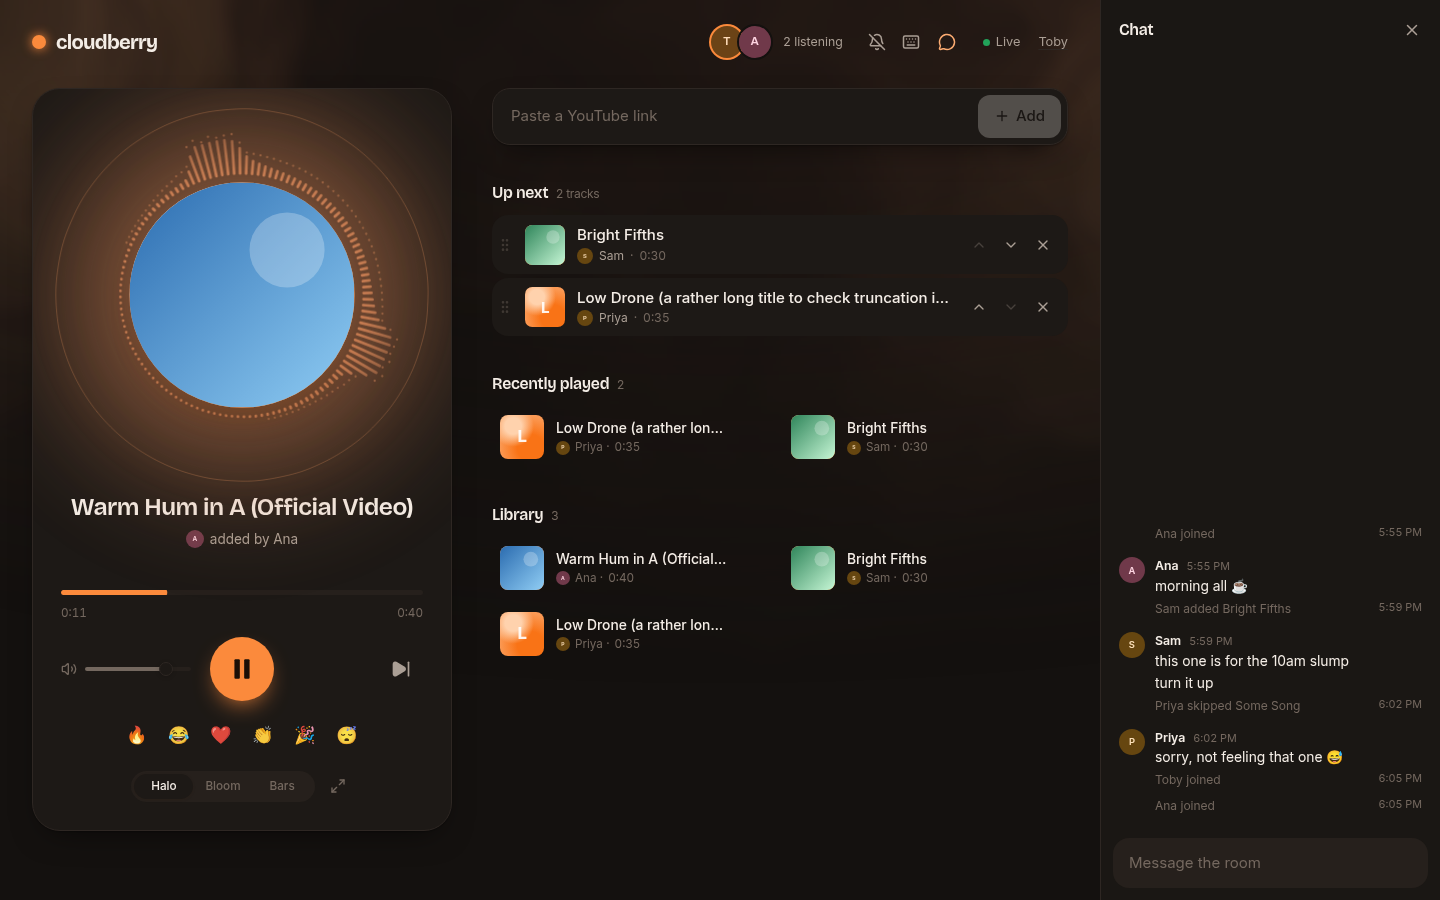
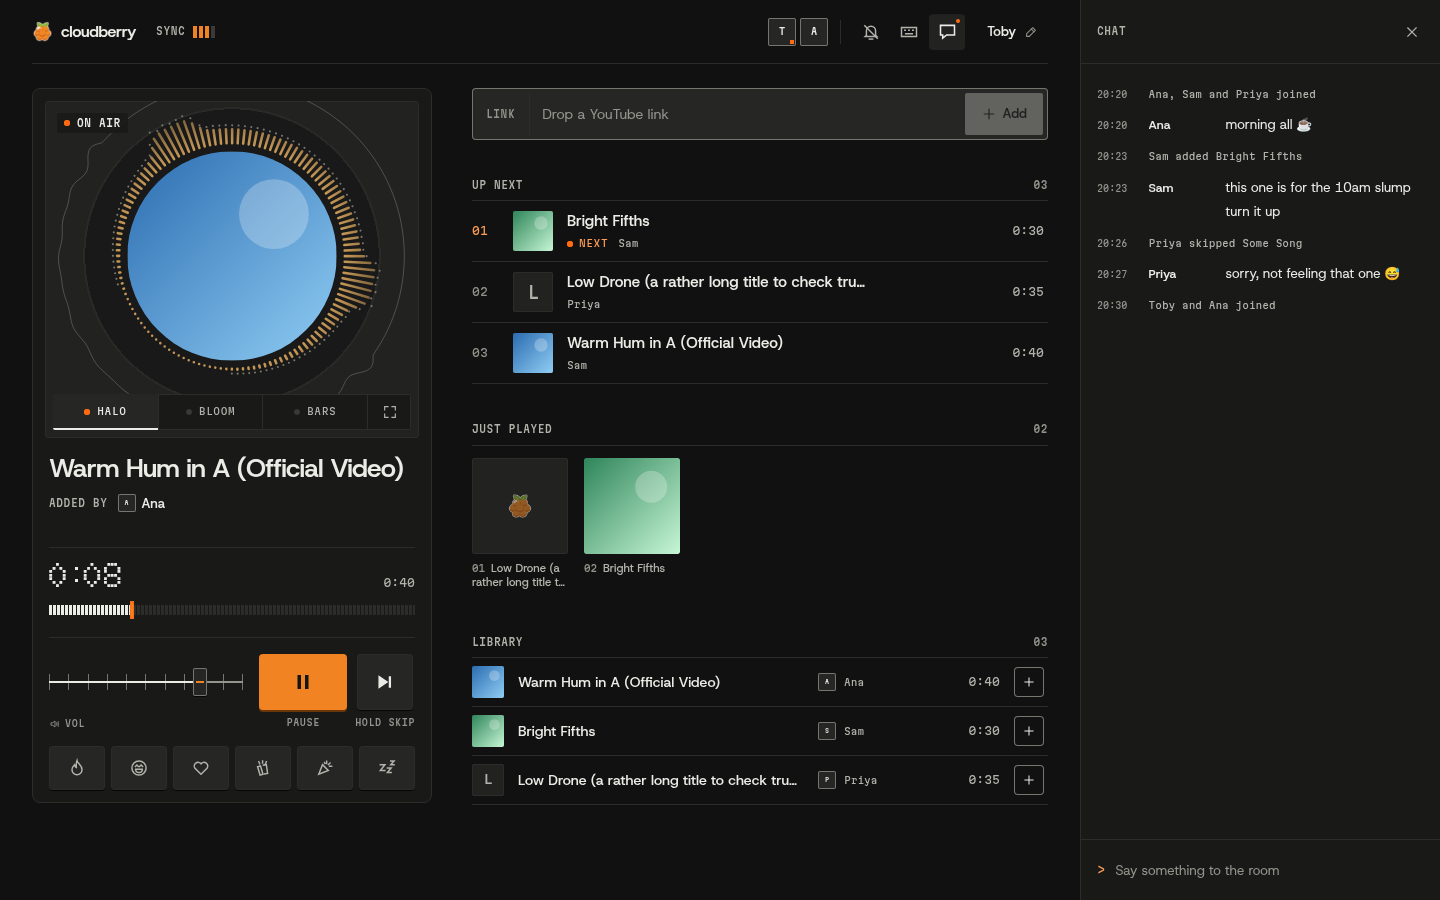
Phase 6 tidy: neutral halo plate, plain just-played numbers, one-row phone header, instrument no-WebGL2 fallback, fresh README shots
- Halo: backing disc is a face-grey plate with a hairline rim; beads and scope ring
  use --line-2; only the spokes carry the (orange-leaning) track tint.
- Just played: captions read 01, 02 like the queue, not -01.
- Phone/tablet header: SYNC meter stays inline (one 64px row); ms still on tap/focus.
- No-WebGL2 fallback: dot grid on the well with an orange level line that follows energy.
- screenshots.mjs: current gate selector and font token; mock seeds a third queued track.

diff --git a/web/src/lib/visualizer/Halo.svelte b/web/src/lib/visualizer/Halo.svelte
@@ -28,7 +28,6 @@
 		let rot = 0;
 		let pulse = 0;
 		let lastPulse = '';
-		let lastTint = '';
 
 		const draw = (f: Frame) => {
 			const { width: W, height: H } = canvas;
@@ -55,15 +54,9 @@
 			const base = C * R0 * (1 + 0.028 * pulse);
 			const inner = base + C * GAP;
 
-			// Tinted disc behind the ring, breathing with energy and beats. A CSS layer so
-			// per-frame changes are compositor-only opacity, not a full-canvas gradient fill.
-			const tint = `${r} ${gr} ${b}`;
-			if (tint !== lastTint) {
-				lastTint = tint;
-				// Flat sticker disc (hard stops), not a soft glow.
-				glowEl.style.background = `radial-gradient(closest-side, rgb(${tint}) 0 ${R0 * 170}%, rgb(${tint} / 0.45) ${R0 * 170}% 74%, transparent 74%)`;
-			}
-			glowEl.style.opacity = (0.12 + 0.3 * f.energy + 0.12 * pulse).toFixed(3);
+			// Neutral plate behind the ring (styled in CSS), breathing with energy and beats.
+			// Opacity only, so per-frame changes stay on the compositor.
+			glowEl.style.opacity = (0.8 + 0.15 * f.energy + 0.05 * pulse).toFixed(3);
 
 			// Spokes: bass at the top, mirrored down both sides, slowly turning.
 			const lw = Math.max(1.5, ((TAU * inner) / (BARS * 2)) * 0.46);
@@ -87,7 +80,9 @@
 			g.stroke();
 
 			// Peak beads just past each spoke.
-			g.fillStyle = rgba(0.55);
+			// Beads and the scope ring are neutral readouts; only the spokes carry colour.
+			const ink = getComputedStyle(canvas).color;
+			g.fillStyle = ink;
 			g.beginPath();
 			for (let i = 0; i < BARS; i++) {
 				if (f.peaks[i] < 0.04) continue;
@@ -104,7 +99,8 @@
 
 			// Thin oscilloscope ring outside the bars, mirrored and tapered so the seams vanish.
 			const wr = inner + C * (LEN + 0.018);
-			g.strokeStyle = rgba(0.22 + 0.4 * f.energy);
+			g.strokeStyle = ink;
+			g.globalAlpha = 0.5 + 0.5 * f.energy;
 			g.lineWidth = Math.max(1, C / 520);
 			g.beginPath();
 			for (const side of [1, -1]) {
@@ -121,6 +117,7 @@
 				}
 			}
 			g.stroke();
+			g.globalAlpha = 1;
 		};
 
 		const unsub = frames.subscribe(draw);
@@ -152,11 +149,14 @@
 	canvas,
 	.glow {
 		position: absolute;
+		color: var(--line-2);
 		aspect-ratio: 1;
 		pointer-events: none;
 	}
+	/* Face-grey plate with a hairline rim, set in the well: never tinted. */
 	.glow {
 		border-radius: 50%;
+		background: radial-gradient(closest-side, var(--surface) 0 73%, var(--line) 73% 74%, transparent 74%);
 		will-change: opacity;
 	}
 </style>

diff --git a/web/src/lib/visualizer/ShaderCanvas.svelte b/web/src/lib/visualizer/ShaderCanvas.svelte
@@ -7,7 +7,7 @@
 	 * A shader from the pack on a canvas. `fill` covers its box (lean-back); `aura` is
 	 * Bloom as a die-cut blob bleeding around its box (behind the now-playing art).
 	 * `still` (e.g. the track id): under reduced motion, one fixed frame per value.
-	 * Without WebGL2, a flat CSS gradient breathes with `energy` instead.
+	 * Without WebGL2, a static dot grid with an orange level line that stretches with `energy`.
 	 */
 	let {
 		shader = 'bloom',
@@ -64,16 +64,12 @@
 		requestAnimationFrame(redraw);
 	});
 
-	/** No WebGL2: a flat tinted shape that swells with energy. */
+	/** No WebGL2: the level line follows energy; the grid stays put. */
 	function runFallback() {
 		let energy = 0;
 		return frames.subscribe((f) => {
-			const el = fallback;
-			if (!el) return;
 			energy = follow(energy, f.energy + 0.3 * f.beat, f.dt, 0.1, 0.5);
-			el.style.setProperty('--tint', `rgb(${f.tint.map(Math.round).join(' ')})`);
-			el.style.opacity = (0.45 + 0.55 * energy).toFixed(3);
-			el.style.transform = `scale(${(0.92 + 0.14 * energy).toFixed(3)})`;
+			fallback?.style.setProperty('--e', energy.toFixed(3));
 		});
 	}
 </script>
@@ -108,16 +104,25 @@
 			height: 200%;
 		}
 	}
+	/* Instrument face: a dot grid on the well, one orange level line across the middle
+	   (it runs out past the art on both sides) that stretches with energy. */
 	.css {
-		--tint: var(--berry-500);
-		/* Flat tone bands, hard stops: same posterised look as the shader. */
-		background:
-			radial-gradient(40% 34% at 35% 40%, var(--berry-300) 0 99%, transparent 100%),
-			radial-gradient(70% 60% at 65% 65%, var(--tint) 0 99%, transparent 100%);
-		will-change: transform, opacity;
+		--e: 0;
+		background: radial-gradient(circle, var(--line-2) 0 1px, transparent 1.5px) center / 16px 16px var(--surface-2);
+	}
+	.css::after {
+		content: '';
+		position: absolute;
+		left: 0;
+		right: 0;
+		top: calc(50% - 1px);
+		height: 2px;
+		background: var(--accent);
+		transform: scaleX(calc(0.6 + 0.4 * var(--e)));
 	}
 	.css.aura {
 		border-radius: 50%;
-		background: radial-gradient(closest-side, var(--tint) 0 60%, transparent 61%);
+		overflow: hidden;
+		box-shadow: inset 0 0 0 1px var(--line);
 	}
 </style>

diff --git a/web/src/lib/components/History.svelte b/web/src/lib/components/History.svelte
@@ -31,7 +31,7 @@
 							<Art track={t} size={96} />
 							{#if flashed === t.id}<span class="done"><Icon name="check" size={24} /><span class="label">Queued</span></span>{/if}
 						</span>
-						<span class="cap"><span class="i num">-{String(i + 1).padStart(2, '0')}</span>{t.title}</span>
+						<span class="cap"><span class="i num">{String(i + 1).padStart(2, '0')}</span>{t.title}</span>
 					</button>
 				</li>
 			{/each}

diff --git a/web/src/routes/+page.svelte b/web/src/routes/+page.svelte
@@ -416,19 +416,6 @@
 			width: 100%;
 			margin: 0 auto;
 		}
-		header {
-			flex-wrap: wrap;
-			height: auto;
-			padding: 12px 0;
-			row-gap: 10px;
-		}
-		.hud-slot {
-			order: 3;
-			flex-basis: 100%;
-		}
-		.head-right {
-			margin-left: auto;
-		}
 	}
 	@media (max-width: 560px) {
 		/* The fixed transport bar lives inside .now's stacking context: lift the whole column. */
